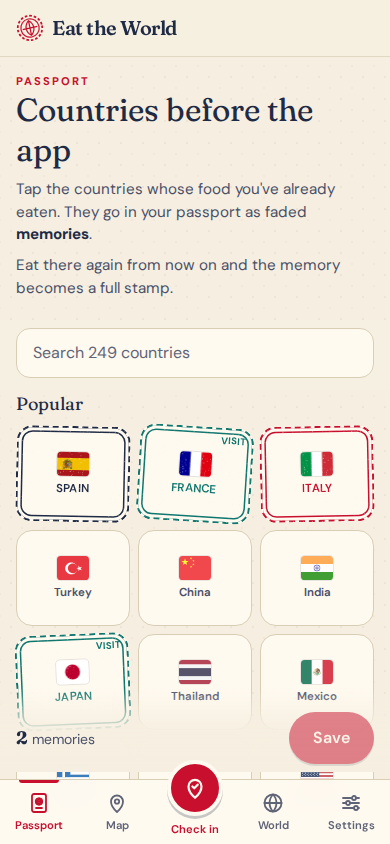
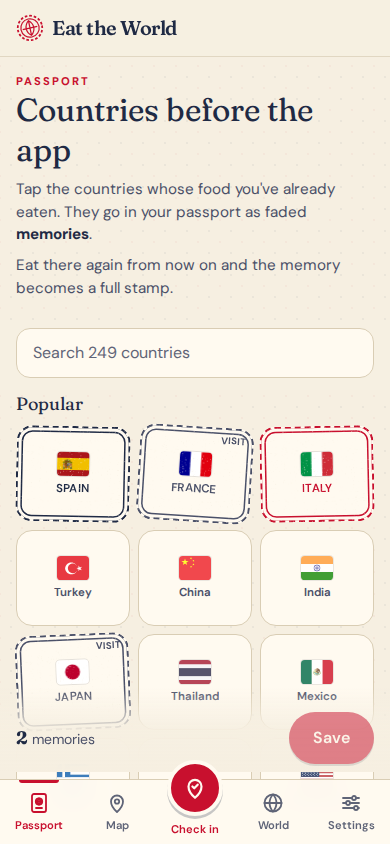
chore(solo): note the three shared-component copies, drop teal from non-verification uses, stop rewriting screenshots on every run, fix two docs steps
- Header comments on SoloMap.tsx, MapCards.tsx and DishRating.tsx name the group component each one
  copies, the intentional differences, and that they are to be kept in step.
- Teal is for verification only (docs/design.md): the locked "Visit" tiles on the backfill screen and the
  "Protected." line in Settings use neutral ink instead. docs/screens/solo/backfill.png is retaken.
- screens.spec.ts saves its pictures only when SOLO_SCREENS=1; `npm run solo:screens` sets it. A normal
  `npm run test:solo-e2e` leaves the working tree clean.
- docs/solo.md: the first deploy happens on the merge to main (the Actions tab lists the workflow only
  once its file is there), and the public-repo checklist says to disable the Backup workflow too.

Claude-Session: https://claude.ai/code/session_01XZCvXKfVzs5tYETS5qZdrc

diff --git a/tests/solo-e2e/screens.spec.ts b/tests/solo-e2e/screens.spec.ts
@@ -448,9 +448,11 @@ test.describe("world", () => {
 
 // Every screen, as a phone shows it. Each test opens one at 390x844 from a populated passport, and a
 // failure here is a blank, overflowing or erroring screen (the suite's fixtures fail any console error).
-// The pictures go to docs/screens/solo/ so a person can read them against docs/design.md.
+// The pictures go to docs/screens/solo/ so a person can read them against docs/design.md, but only when
+// SOLO_SCREENS=1 (`npm run solo:screens`): an ordinary run must not rewrite files that are committed.
 test.describe("every screen on a phone", () => {
   const SHOTS = path.resolve(__dirname, "../../docs/screens/solo");
+  const WRITE_SHOTS = process.env.SOLO_SCREENS === "1";
   /** The day the pictures are taken on, so the dates and the 30-day backup reminder do not drift. */
   const TODAY = new Date("2026-10-22T10:00:00");
 
@@ -494,8 +496,9 @@ test.describe("every screen on a phone", () => {
     // A screen that is wider than the phone is a broken screen, even if nothing errors.
     const overflow = await page.evaluate(() => document.documentElement.scrollWidth - document.documentElement.clientWidth);
     expect(overflow, `${name} is wider than the screen`).toBeLessThanOrEqual(0);
-    mkdirSync(SHOTS, { recursive: true });
-    await page.screenshot({ path: path.join(SHOTS, `${name}.png`), scale: "css", animations: "disabled" });
+    // The picture is always taken, so a screen that cannot be captured still fails the run; it is only saved on request.
+    if (WRITE_SHOTS) mkdirSync(SHOTS, { recursive: true });
+    await page.screenshot({ path: WRITE_SHOTS ? path.join(SHOTS, `${name}.png`) : undefined, scale: "css", animations: "disabled" });
   };
 
   /** Opens `hash` with the gallery passport in the phone, on the day the pictures are taken. */

diff --git a/solo/src/components/SoloMap.tsx b/solo/src/components/SoloMap.tsx
@@ -1,3 +1,11 @@
+// A copy of src/components/map/LondonMap.tsx. KEEP IN STEP with it; delete this and MapCards.tsx once
+// LondonMap takes optional props for the wording and the check-in link. Why it is a copy, and the other
+// two copies: docs/solo.md, "Known copies of shared components".
+// Intentional differences from LondonMap (the first three live in MapCards.tsx):
+//  - the ring reads "You've been here", not "A friend's been" / "A friend has been";
+//  - the card's action is "Log a visit", linking to /check-in?restaurant=<id>, not "Check in" to /check-in/<id>;
+//  - no "Reported closed" badge (solo restaurants have no status);
+//  - no empty-map fallback centred on London: MapView shows an empty state instead of rendering this with no pins.
 import "leaflet/dist/leaflet.css";
 import "@/components/map/map.css";
 import L from "leaflet";

diff --git a/solo/src/components/MapCards.tsx b/solo/src/components/MapCards.tsx
@@ -1,3 +1,10 @@
+// A copy of Legend and PinCard in src/components/map/LondonMap.tsx. KEEP IN STEP with them; delete this
+// and SoloMap.tsx once LondonMap takes optional props for the wording and the check-in link. Why it is a
+// copy, and the other two copies: docs/solo.md, "Known copies of shared components".
+// Intentional differences from LondonMap:
+//  - the ring reads "You've been here", not "A friend's been" (legend) / "A friend has been" (card);
+//  - the card's action is "Log a visit", linking to /check-in?restaurant=<id>, not "Check in" to /check-in/<id>;
+//  - no "Reported closed" badge (solo restaurants have no status).
 import { Badge, ContestedBadge } from "@/components/ui/Badge";
 import { ButtonLink } from "@/components/ui/Button";
 import { Flag } from "@/components/ui/Flag";

diff --git a/solo/src/components/DishRating.tsx b/solo/src/components/DishRating.tsx
@@ -1,3 +1,9 @@
+// A copy of src/components/checkin/DishRatingFields.tsx. KEEP IN STEP with it; delete this once
+// DishRatingFields takes an optional prop for the hint and placeholder. Why it is a copy, and the other
+// copies: docs/solo.md, "Known copies of shared components".
+// Intentional differences from DishRatingFields:
+//  - the hint beside "What did you have?" is always "Optional", never "A signature dish earns +2" (solo has no points);
+//  - the typed-dish placeholder is "What was it called?", not the group app's "e.g. Sticky rice with jeow bong".
 import { useId, type KeyboardEvent } from "react";
 import { cn } from "@/components/ui/cn";
 import type { DishRatingValue } from "@/components/checkin/DishRatingFields";

diff --git a/solo/src/screens/Backfill.tsx b/solo/src/screens/Backfill.tsx
@@ -136,7 +136,7 @@ export default function Backfill() {
             "relative flex h-24 w-full flex-col items-center justify-center gap-1.5 rounded-2xl px-1.5 text-center transition",
             "active:scale-95",
             on
-              ? cn("stamp-ink bg-paper-raised", isLocked ? "text-verified-teal" : style.ink)
+              ? cn("stamp-ink bg-paper-raised", isLocked ? "text-ink-soft" : style.ink)
               : "border border-line bg-paper-raised text-ink-soft hover:border-ink/40",
             fresh === c.iso2 && on && "animate-stamp-in",
           )}

diff --git a/solo/src/components/settings/StorageSection.tsx b/solo/src/components/settings/StorageSection.tsx
@@ -55,7 +55,7 @@ export function StorageSection() {
     <Section title="Storage">
       {persistence === "granted" && (
         <p>
-          <strong className="text-verified-teal">Protected.</strong> The browser won&apos;t clear your passport to free
+          <strong className="text-ink">Protected.</strong> The browser won&apos;t clear your passport to free
           up space.
         </p>
       )}

diff --git a/docs/solo.md b/docs/solo.md
@@ -12,7 +12,8 @@ It is not a client of the group app: no sign-in, groups, friends, points, sets, 
 | `npm run solo:build` | Production build into `solo/dist`. |
 | `npm run solo:preview -- --base /eat-the-world/ --port 4173` | Serves the build as GitHub Pages will, at `http://localhost:4173/eat-the-world/`. |
 | `npx vitest run tests/solo` | Unit tests. |
-| `npm run test:solo-e2e` | Playwright at 390x844. Builds and serves the app itself, and rewrites the pictures in `docs/screens/solo/`. |
+| `npm run test:solo-e2e` | Playwright at 390x844. Builds and serves the app itself; it leaves the repository untouched. |
+| `npm run solo:screens` | The same suite's screens spec only, which rewrites the pictures in `docs/screens/solo/` (run it after a visual change and commit the result). |
 | `npm run solo:seed` | Regenerates `solo/src/data/seed.json` from `seed/` and postcodes.io (needs network). Commit the result. |
 
 `.github/workflows/ci.yml` runs the unit tests and the Playwright suite in its `solo` job, and fails if the build mentions `supabase`.
@@ -25,7 +26,7 @@ One-time setup:
 
 1. Make the repository public (free GitHub accounts serve Pages only from public repositories). Work through the checklist below first.
 2. Settings > Pages > Source: **GitHub Actions**.
-3. Run the workflow once from the Actions tab (Solo on GitHub Pages > Run workflow), or merge a change to `main`.
+3. Merge this branch to `main` once steps 1 and 2 are done. The push runs the workflow and publishes the site; the Actions tab only lists the workflow once its file is on `main`. Later redeploys can use Actions > Solo on GitHub Pages > Run workflow.
 
 Pages cannot set response headers, so the page carries `<meta name="robots" content="noindex, nofollow">` instead.
 
@@ -33,7 +34,7 @@ If the repository stays private, use Cloudflare Pages instead: connect the repos
 
 ### Before making the repo public
 
-- [ ] `.github/workflows/backup.yml` uploads a weekly `supabase db dump` (schema and data) as a workflow artifact kept for 90 days. In a public repository anyone signed in to GitHub can download it. Delete the existing `supabase-backup-*` artifacts (Actions > the workflow runs), and encrypt or remove the upload, before the switch.
+- [ ] `.github/workflows/backup.yml` uploads a weekly `supabase db dump` (schema and data) as a workflow artifact kept for 90 days. In a public repository anyone signed in to GitHub can download it. Delete the existing `supabase-backup-*` artifacts (Actions > the workflow runs), and encrypt or remove the upload, or disable the Backup workflow (Actions > Backup > ... > Disable workflow), since its schedule keeps producing new artifacts, before the switch.
 - [ ] The code, the docs and the workflow logs become public. The history was scanned for obvious secrets (JWTs, `sb_secret_` keys, GitHub tokens, private keys, credentialed database URLs) and none were found, but a pattern match is not a guarantee. Rotate anything doubtful.
 
 ## Installing on Android
